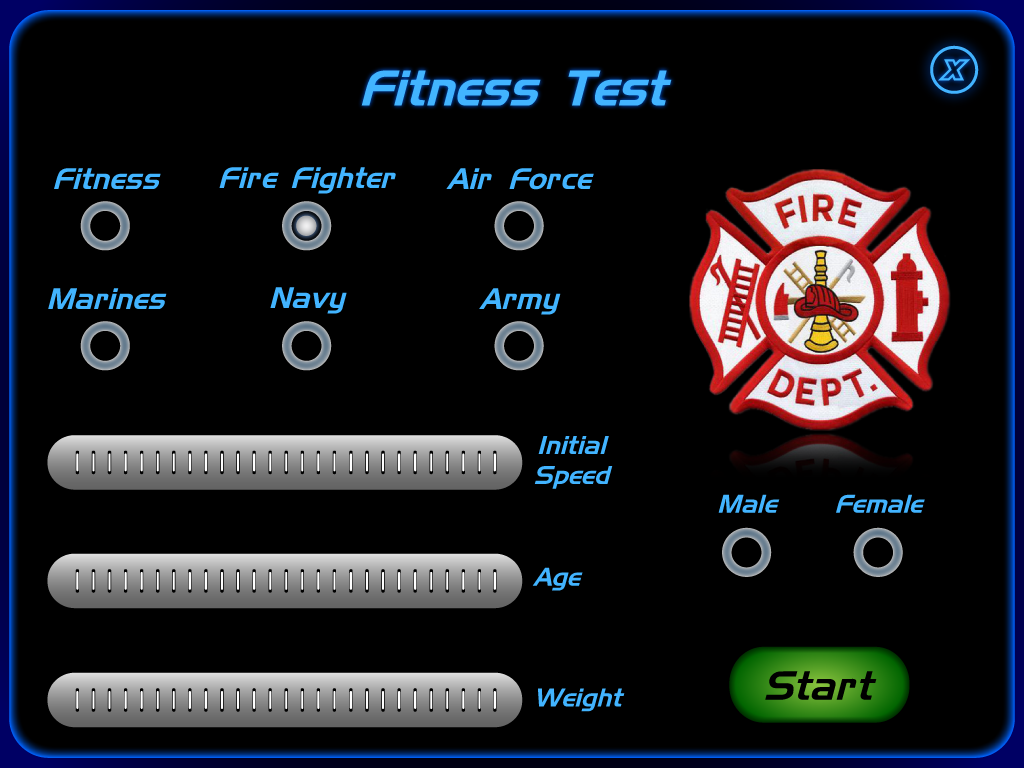
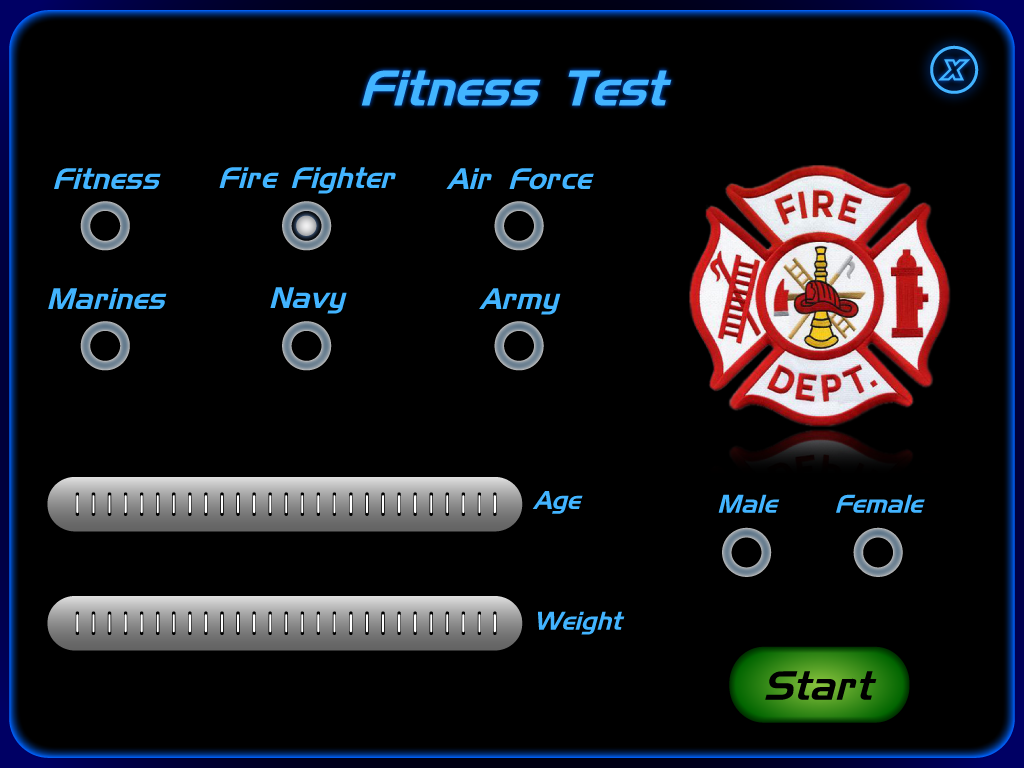
Finished most of the fitness tests.

Changed region(s): [[0.0312, 0.5625, 0.625, 0.9688], [0.6562, 0.1875, 0.9375, 0.5938]]

diff --git a/TreadmillUI/trunk/APP/fitnesstestscreen.cpp b/TreadmillUI/trunk/APP/fitnesstestscreen.cpp
@@ -1,10 +1,12 @@
 #include "fitnesstestscreen.h"
 #include "ui_fitnesstestscreen.h"
 
+#include <QMessageBox>
+#include <QDebug>
+
 #include "mainscreen.h"
 #include "preferences.h"
 #include "screens.h"
-#include <QMessageBox>
 
 static int SLIDER_X = 13;
 
@@ -14,6 +16,13 @@ FitnessTestScreen::FitnessTestScreen(QWidget *parent) :
     ,weightSlider(this)
     ,ageSlider(this)
     ,initialSpeedSlider(this)
+    ,fitnessPixmap(":/images/images/Fitness-Test---06---(Fitness---Standard).png")
+    ,fireFighterPixmap(":/images/images/Fitness-Test---06---(Fire-Fighter---Standard).png")
+    ,airForcePixmap(":/images/images/Fitness-Test---06---(Air-Force---Standard).png")
+    ,marinesPixmap(":/images/images/Fitness-Test---06---(Marines---Standard).png")
+    ,navyPixmap(":/images/images/Fitness-Test---06---(Navy---Standard).png")
+    ,armyPixmap(":/images/images/Fitness-Test---06---(Army---Standard).png")
+    ,backgroundPixmap(NULL)
 {
     ui->setupUi(this);
     setAttribute( Qt::WA_DeleteOnClose );
@@ -29,6 +38,8 @@ FitnessTestScreen::FitnessTestScreen(QWidget *parent) :
     else{
         on_invisibleButton_femaleRadio_pressed();
     }
+
+    initialSpeedSlider.setValue(6.0);
 }
 
 FitnessTestScreen::~FitnessTestScreen()
@@ -41,12 +52,40 @@ void FitnessTestScreen::on_invisibleButton_5_pressed()
     close();
 }
 
-void FitnessTestScreen::on_invisibleButton_6_pressed()
+void FitnessTestScreen::on_startButton_pressed()
 {
-    QMessageBox::information(this, "", "This feature is not yet implemented!");
+    Workout* workout = NULL;
+
+    if(backgroundPixmap == &fitnessPixmap){
+        workout = Workout::createFitnessWorkout(ageSlider.value, weightSlider.value, Preferences::gender);
+    }
+    else if(backgroundPixmap == &fireFighterPixmap){
+        workout = Workout::createFireFighterWorkout( ageSlider.value, weightSlider.value, Preferences::gender);
+    }
+    else if(backgroundPixmap == &airForcePixmap){
+        workout = Workout::createAirForceWorkout(initialSpeedSlider.value, ageSlider.value, weightSlider.value, Preferences::gender);
+    }
+    else if(backgroundPixmap == &marinesPixmap){
+        workout = Workout::createMarinesWorkout(initialSpeedSlider.value, ageSlider.value, weightSlider.value, Preferences::gender);
+    }
+    else if(backgroundPixmap == &navyPixmap){
+        workout = Workout::createNavyWorkout(initialSpeedSlider.value, ageSlider.value, weightSlider.value, Preferences::gender);
+    }
+    else if(backgroundPixmap == &armyPixmap){
+        workout = Workout::createArmyWorkout(initialSpeedSlider.value, ageSlider.value, weightSlider.value, Preferences::gender);
+    }
+    else{
+        qDebug() << "An unknown fitness background was selected";
+        return;
+    }
+
+    MainScreen::getMainScreen()->startWorkout(workout);
+    close();
 }
 
 void FitnessTestScreen::showTwoSliders(){
+
+    ui->backgroundLabel->setPixmap(*backgroundPixmap);
 
     initialSpeedSlider.hide();
 
@@ -56,6 +95,8 @@ void FitnessTestScreen::showTwoSliders(){
 
 void FitnessTestScreen::showThreeSliders(){
 
+    ui->backgroundLabel->setPixmap(*backgroundPixmap);
+
     initialSpeedSlider.show();
 
     ageSlider.move(SLIDER_X,556);
@@ -64,38 +105,38 @@ void FitnessTestScreen::showThreeSliders(){
 
 void FitnessTestScreen::on_invisibleButton_8_pressed()
 {
-    ui->backgroundLabel->setPixmap(QPixmap(QString(":/images/images/Fitness-Test---06---(Fire-Fighter---Standard).png")));
-    showThreeSliders();
+    backgroundPixmap = &fireFighterPixmap;
+    showTwoSliders();
 }
 
 void FitnessTestScreen::on_invisibleButton_4_pressed()
 {
-    ui->backgroundLabel->setPixmap(QPixmap(QString(":/images/images/Fitness-Test---06---(Air-Force---Standard).png")));
+    backgroundPixmap = &airForcePixmap;
     showThreeSliders();
 }
 
 void FitnessTestScreen::on_invisibleButton_7_pressed()
 {
-    ui->backgroundLabel->setPixmap(QPixmap(QString(":/images/images/Fitness-Test---06---(Marines---Standard).png")));
+    backgroundPixmap = &marinesPixmap;
     showThreeSliders();
 }
 
 void FitnessTestScreen::on_invisibleButton_2_pressed()
 {
-    ui->backgroundLabel->setPixmap(QPixmap(QString(":/images/images/Fitness-Test---06---(Navy---Standard).png")));
+    backgroundPixmap = &navyPixmap;
     showThreeSliders();
 }
 
 void FitnessTestScreen::on_invisibleButton_3_pressed()
 {
-    ui->backgroundLabel->setPixmap(QPixmap(QString(":/images/images/Fitness-Test---06---(Army---Standard).png")));
+    backgroundPixmap = &armyPixmap;
     showThreeSliders();
 }
 
 void FitnessTestScreen::on_invisibleButton_fitness_pressed()
 {
 
-    ui->backgroundLabel->setPixmap(QPixmap(QString(":/images/images/Fitness-Test---06---(Fitness---Standard).png")));
+    backgroundPixmap = &fitnessPixmap;
     showTwoSliders();
 }
 

diff --git a/TreadmillUI/trunk/APP/workout.cpp b/TreadmillUI/trunk/APP/workout.cpp
@@ -11,10 +11,13 @@
 
 static int MIN_SPEED = 1;
 
+using namespace std;
+
 Workout::Workout(QString name, int weight) :
         name(name)
         ,_weight(weight)
         ,steps(new QList<Step*>())
+        ,distance(numeric_limits<float>::max())
 {
 }
 
@@ -22,6 +25,7 @@ Workout::Workout(QString name, int weight, QList<Step*>* steps) :
         name(name)
         ,_weight(weight)
         ,steps(steps)
+        ,distance(numeric_limits<float>::max())
 {
 }
 
@@ -167,6 +171,82 @@ Workout* Workout::createDynamicGradeWorkout(QString name, int minutes, int lowGr
 
         steps->append(new WaitStep(sprintLength));
     }
+
+    return workout;
+}
+
+Workout* Workout::createFitnessWorkout(int age, int weight, bool gender){
+//    Workout* workout = new Workout("Fitness", weight);
+//    QList<Step*> *steps = workout->steps;
+
+    return NULL;
+}
+
+Workout* Workout::createFireFighterWorkout( int age, int weight, bool gender){
+    Workout* workout = new Workout("Fire Fighter", weight);
+    QList<Step*> *steps = workout->steps;
+
+    //warm up
+    steps->append(new ChangeSpeedStep(3.0));
+    steps->append(new ChangeGradeStep(0));
+    steps->append(new WaitStep(3 * MILLIS_PER_MINUTE));
+
+    //workout stages
+    steps->append(new ChangeSpeedStep(4.5));
+    steps->append(new WaitStep(MILLIS_PER_MINUTE));
+    steps->append(new ChangeGradeStep(2.0));
+    steps->append(new WaitStep(MILLIS_PER_MINUTE));
+    steps->append(new ChangeSpeedStep(5.0));
+    steps->append(new WaitStep(MILLIS_PER_MINUTE));
+    steps->append(new ChangeGradeStep(4.0));
+    steps->append(new WaitStep(MILLIS_PER_MINUTE));
+    steps->append(new ChangeSpeedStep(5.5));
+    steps->append(new WaitStep(MILLIS_PER_MINUTE));
+    steps->append(new ChangeGradeStep(6.0));
+    steps->append(new WaitStep(MILLIS_PER_MINUTE));
+    steps->append(new ChangeSpeedStep(6.0));
+    steps->append(new WaitStep(MILLIS_PER_MINUTE));
+    steps->append(new ChangeGradeStep(8.0));
+    steps->append(new WaitStep(MILLIS_PER_MINUTE));
+    steps->append(new ChangeSpeedStep(6.5));
+    steps->append(new WaitStep(MILLIS_PER_MINUTE));
+    steps->append(new ChangeGradeStep(10.0));
+    steps->append(new WaitStep(MILLIS_PER_MINUTE));
+    steps->append(new ChangeSpeedStep(7.0));
+    steps->append(new WaitStep(MILLIS_PER_MINUTE));
+
+    //cool down
+    steps->append(new ChangeSpeedStep(3.0));
+    steps->append(new ChangeGradeStep(0.0));
+    steps->append(new WaitStep(MILLIS_PER_MINUTE));
+
+    return workout;
+}
+
+Workout* Workout::createAirForceWorkout(float initialSpeed, int age, int weight, bool gender){
+    Workout* workout = createWorkout("Air Force", initialSpeed, 1.0, 90);
+    workout->distance = 1.5;
+
+    return workout;
+}
+
+Workout* Workout::createMarinesWorkout(float initialSpeed, int age, int weight, bool gender){
+    Workout* workout = createWorkout("Marines", initialSpeed, 1.0, 90);
+    workout->distance = 3.0;
+
+    return workout;
+}
+
+Workout* Workout::createNavyWorkout(float initialSpeed, int age, int weight, bool gender){
+    Workout* workout = createWorkout("Navy", initialSpeed, 1.0, 90);
+    workout->distance = 1.5;
+
+    return workout;
+}
+
+Workout* Workout::createArmyWorkout(float initialSpeed, int age, int weight, bool gender){
+    Workout* workout = createWorkout("Army", initialSpeed, 1.0, 90);
+    workout->distance = 2.0;
 
     return workout;
 }

diff --git a/TreadmillUI/trunk/APP/mainscreen.cpp b/TreadmillUI/trunk/APP/mainscreen.cpp
@@ -203,17 +203,17 @@ void MainScreen::processNextWorkoutStep() {
             if(step->getType() == SPEED_CHANGE_TYPE){
                 ChangeSpeedStep* changeSpeedStep = (ChangeSpeedStep*) step;
                 Preferences::setCurrentSpeed(changeSpeedStep->speed);
-//                qDebug() << "Workout speed change: " << changeSpeedStep->speed;
+                qDebug() << "Workout speed change: " << changeSpeedStep->speed;
             }
             else if(step->getType() == GRADE_CHANGE_TYPE){
                 ChangeGradeStep* changeGradeStep = (ChangeGradeStep*) step;
                 Preferences::setCurrentGrade(changeGradeStep->grade);
-//                qDebug() << "Workout grade change: " << changeGradeStep->grade;
+                qDebug() << "Workout grade change: " << changeGradeStep->grade;
             }
             else if(step->getType() == WAIT_TYPE){
                 WaitStep* waitStep = (WaitStep*) step;
                 nextWorkoutStepTime += waitStep->time;
-//                qDebug() << "Workout wait: " << waitStep->time;
+                qDebug() << "Workout wait: " << waitStep->time;
 
                 /**
                   * Return.  This method will get called again during updateDisplay()
@@ -420,6 +420,11 @@ void MainScreen::updateDisplay(){
 
     //distance += ((double)speed)*HOURS_PER_UPDATE/10; // this wasn't quite right.
     distance += ((((double)speed/10)/3600000)*(thisUpdate-lastUpdate));
+
+    if(workout != NULL && distance >= workout->distance){
+        endWorkout();
+    }
+
     lastUpdate=thisUpdate;
     int distanceInt = (int) distance;
     int distanceDecimal = (distance - distanceInt) * 100;

diff --git a/TreadmillUI/trunk/APP/workout.h b/TreadmillUI/trunk/APP/workout.h
@@ -15,12 +15,19 @@ public:
     QList<Step*>* steps;
     QString name;
     int _weight;
+    float distance;
 
     static Workout* createWorkout(QString name, float speed, float grade, int minutes);
     static Workout* createDynamicGradeWorkout(QString name, int minutes, int lowGrade , int highGrade, int age, int weight);
     static Workout* createIntensityWorkout(QString name, int minutes, int initialSpeed, double intensityPercent, int weight);
     static Workout* createDynamicSpeedWorkout(QString name, int minutes, int lowSpeed , int highSpeed, int initialSpeed, int weight);
     static Workout* createHeartRateWorkout(QString name, int minutes, float lowPercentage , float highPercentage, int age, int weight);
+    static Workout* createFitnessWorkout( int age, int weight, bool gender);
+    static Workout* createFireFighterWorkout(int age, int weight, bool gender);
+    static Workout* createAirForceWorkout(float initialSpeed, int age, int weight, bool gender);
+    static Workout* createMarinesWorkout(float initialSpeed, int age, int weight, bool gender);
+    static Workout* createNavyWorkout(float initialSpeed, int age, int weight, bool gender);
+    static Workout* createArmyWorkout(float initialSpeed, int age, int weight, bool gender);
 
     void save();
     static Workout* load(QString workoutName);

diff --git a/TreadmillUI/trunk/APP/fitnesstestscreen.h b/TreadmillUI/trunk/APP/fitnesstestscreen.h
@@ -30,6 +30,15 @@ private:
     void showTwoSliders();
     void showThreeSliders();
 
+    QPixmap fitnessPixmap;
+    QPixmap fireFighterPixmap;
+    QPixmap airForcePixmap;
+    QPixmap marinesPixmap;
+    QPixmap navyPixmap;
+    QPixmap armyPixmap;
+
+    QPixmap* backgroundPixmap;
+
 private slots:
     void on_invisibleButton_maleRadio_pressed();
     void on_invisibleButton_femaleRadio_pressed();
@@ -39,7 +48,7 @@ private slots:
     void on_invisibleButton_7_pressed();
     void on_invisibleButton_4_pressed();
     void on_invisibleButton_8_pressed();
-    void on_invisibleButton_6_pressed();
+    void on_startButton_pressed();
     void on_invisibleButton_5_pressed();
 };
 
